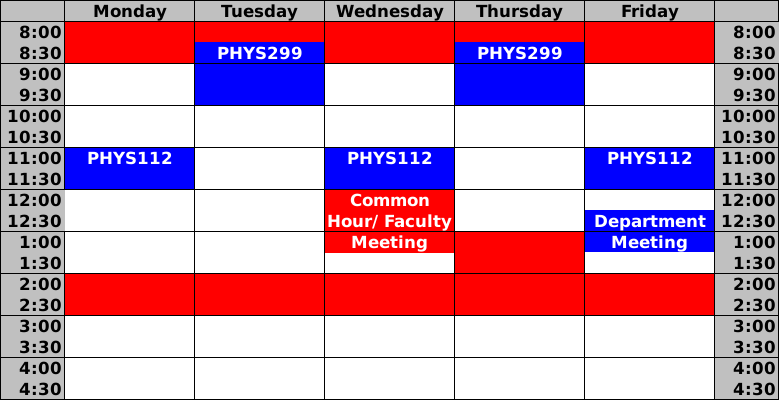
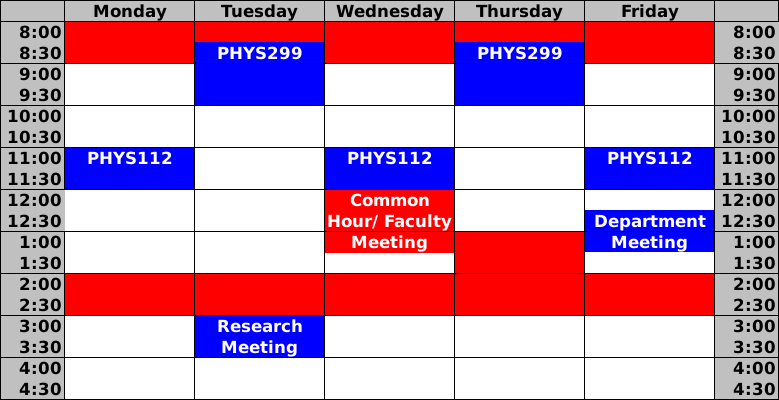
Spring schedule

Changed region(s): [[0.2465, 0.78, 0.4313, 0.9]]

diff --git a/schedule.md b/schedule.md
@@ -1,7 +1,7 @@
-## Fall 2021 Schedule
+## Spring 2022 Schedule
 
 <!-- My summer schedule is flexible. [Please get in touch](mailto:lriley@ursinus.edu) if you'd like to meet. -->
 
 ![Schedule](/assets/img/schedule.png) 
 
-Virtual office hours are shown in yellow. During these times, I will be "on call" to meet in Teams. Just reach out in the Teams chat. I can also make appointments in the white blocks. I am unavailable at times shown in red and blue.
+To set up meetings for help or advising, use my [Bookings page](https://outlook.office365.com/owa/calendar/LewRileyOfficeHours@ursinuscollege365.onmicrosoft.com/bookings/). I am unavailable at times shown in red and blue.
